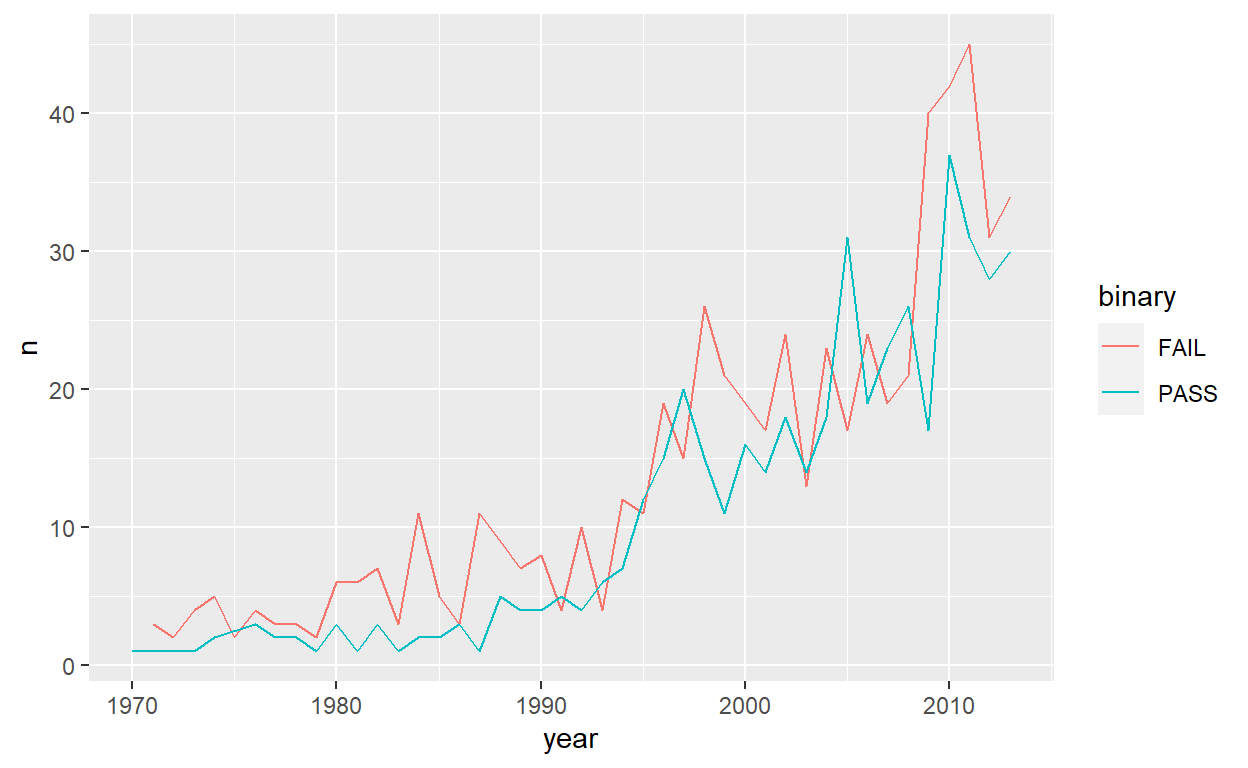
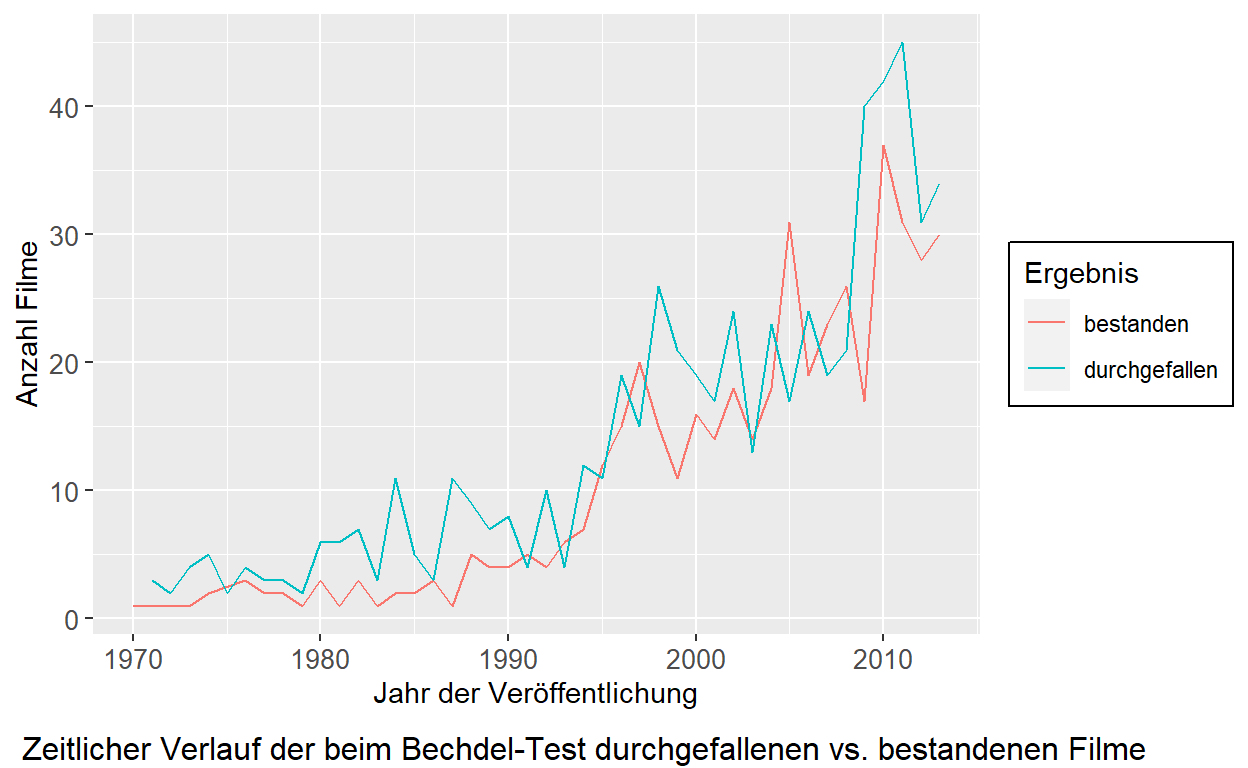
Erstellung der restlichen Texte & Anpassung des untersten Diagramms

diff --git a/_site/index.html b/_site/index.html
@@ -108,7 +108,7 @@ code span.wa { color: #5e5e5e; font-style: italic; } /* Warning */
   <!--radix_placeholder_rmarkdown_metadata-->
 
   <script type="text/json" id="radix-rmarkdown-metadata">
-  {"type":"list","attributes":{"names":{"type":"character","attributes":{},"value":["title","description","output"]}},"value":[{"type":"character","attributes":{},"value":["Gleichberechtigung"]},{"type":"character","attributes":{},"value":["Sind Filme Spiegel ihrer Gesellschaft?  \nFinde heraus, wie die Gleichberechtigung in Deinem Land aussieht und ob sie sich in der Filmwelt widerspiegelt!\n"]},{"type":"list","attributes":{"names":{"type":"character","attributes":{},"value":["distill::distill_article"]}},"value":[{"type":"list","attributes":{"names":{"type":"character","attributes":{},"value":["toc"]}},"value":[{"type":"logical","attributes":{},"value":[true]}]}]}]}
+  {"type":"list","attributes":{"names":{"type":"character","attributes":{},"value":["title","description","output"]}},"value":[{"type":"character","attributes":{},"value":["Gleichberechtigung"]},{"type":"character","attributes":{},"value":["Sind Filme Spiegel ihrer Gesellschaft?  \nFinde heraus, wie die Gleichberechtigung in Deinem Land aussieht und ob sie sich in der Filmwelt widerspiegelt!\n"]},{"type":"character","attributes":{},"value":["distill::distill_article"]}]}
   </script>
   <!--/radix_placeholder_rmarkdown_metadata-->
   <!--radix_placeholder_navigation_in_header-->
@@ -2372,35 +2372,19 @@ Finde heraus, wie die Gleichberechtigung in Deinem Land aussieht und ob sie sich
 
 
 <div class="d-article">
-<div class="d-contents d-contents-float">
-<nav class="l-text toc figcaption" id="TOC">
-<h3>Contents</h3>
-<ul>
-<li><a href="#gleichberechtigung">Gleichberechtigung</a></li>
-</ul>
-</nav>
-</div>
 <div class="layout-chunk" data-layout="l-body">
 
 </div>
 <h2 id="gleichberechtigung">Gleichberechtigung</h2>
-<p>Wir, die DataWizards, haben für Euch die spannendsten Länder bereitgestellt. Klick auf unsere Karte oder finde Dein Land über die Menüleiste, um Informationen rund ums Thema Gleichstellung zu finden: Sei es zum <a href="Glossar.html">Gleichstellungsindex</a> oder zum <a href="Glossar.html">Bechdel-Test</a>.</p>
+<p>Wir, die DataWizards, haben für Euch die 14 spannendsten Länder bereitgestellt. Klick auf unsere Karte oder finde Dein Land über die Menüleiste, um Informationen rund ums Thema Gleichstellung zu finden: Sei es zum <a href="Glossar.html">Gleichstellungsindex</a> oder zum <a href="Glossar.html">Bechdel-Test</a>.</p>
 <div class="layout-chunk" data-layout="l-body-outset">
 <p><img src="index_files/figure-html5/unnamed-chunk-1-1.png" width="768" /></p>
 </div>
-<ul>
-<li>Korrelationstest?</li>
-</ul>
+<p>Bis auf China und Japan erzielen alle Länder eine hohe Gesamtpunktzahl in dem Gleichstellungsindex – trotzdem schwankt ihre Durchfallquote beim Bechdel-Test um über 30%. Teils unterscheidet sich, wie gut sich das Land in beiden Scores schlägt, teils ähneln sich die Ergebnisse. Die Frage, ob Filme einen Spiegel der Gesellschaft in Bezug auf Gleichstellung darstellen, bleibt somit Ländersache…</p>
 <div class="layout-chunk" data-layout="l-body">
 <p><img src="index_files/figure-html5/unnamed-chunk-2-1.png" width="624" /></p>
 </div>
-<ul>
-<li>generelle Zunahme von Filmen über die Jahre</li>
-<li>wenige Peaks von mehr PASS als FAIL</li>
-<li>grundsätzlich werden trotz Zunahme immer mehr Filme produziert, die durchfallen</li>
-<li>zeigt, dass in der Filmbranche Gleichberechtigung nicht durchgesetzt ist</li>
-<li>Filme als Repräsentation/Spiegel der Gesellschaft</li>
-</ul>
+<p>Insgesamt werden über die Jahre immer mehr Filme produziert. Trotz weniger Peaks (z.B. in 1997 und 2005), in denen mehr produzierte Filme den Bechdel-Test bestehen, fallen die seit 1970 veröffentlichten Filme grundsätzlich durch. Wird der Test als Maßstab für die Gleichberechtigung betrachtet, zeigt er, dass sie in der Filmbranche nicht durchgängig umgesetzt ist. Es besteht noch Verbesserungsbedarf!</p>
 <div class="sourceCode" id="cb1"><pre class="sourceCode r distill-force-highlighting-css"><code class="sourceCode r"></code></pre></div>
 <!--radix_placeholder_article_footer-->
 <!--/radix_placeholder_article_footer-->

diff --git a/_site/New_Zealand.html b/_site/New_Zealand.html
@@ -2354,6 +2354,7 @@ Ergebnisse nach Land
 <a href="USA.html">USA</a>
 </div>
 </div>
+<a href="Glossar.html">Glossar</a>
 <a href="about.html">About</a>
 <a href="javascript:void(0);" class="nav-toggle">&#9776;</a>
 </div>
@@ -2382,7 +2383,6 @@ Ergebnisse nach Land
 <li><a href="#hindernisse">Hindernisse</a></li>
 </ul></li>
 <li><a href="#ergebnisse-beim-bechdel-test">Ergebnisse beim Bechdel-Test</a></li>
-<li><a href="#vergleich">Vergleich</a></li>
 <li><a href="#fazit">Fazit</a></li>
 </ul>
 </nav>
@@ -2444,11 +2444,8 @@ Ergebnisse nach Land
 <div class="layout-chunk" data-layout="l-body">
 <p><img src="New_Zealand_files/figure-html5/unnamed-chunk-3-1.png" width="624" /></p>
 </div>
-<h2 id="vergleich">Vergleich</h2>
 <h2 id="fazit">Fazit</h2>
-<ul>
-<li>Sind Filme Spiegel der Gesellschaft was Gleichberechtigung angeht?</li>
-</ul>
+<p>Obwohl Neuseeland bei dem Gleichstellungsindex insgesamt sehr gut ausfällt, fallen die in dem Land produzierten Filme generell beim Bechdel-Test durch – hauptsächlich, weil die Frauenrollen nicht miteinander reden. Lediglich Drama-Filme bestehen den Test häufiger. Somit spiegeln die Filme von Neuseeland nicht direkt seinen Gleichberechtigungsstandard wider.</p>
 <div class="sourceCode" id="cb1"><pre class="sourceCode r distill-force-highlighting-css"><code class="sourceCode r"></code></pre></div>
 <!--radix_placeholder_article_footer-->
 <!--/radix_placeholder_article_footer-->

diff --git a/_site/UK.html b/_site/UK.html
@@ -2354,6 +2354,7 @@ Ergebnisse nach Land
 <a href="USA.html">USA</a>
 </div>
 </div>
+<a href="Glossar.html">Glossar</a>
 <a href="about.html">About</a>
 <a href="javascript:void(0);" class="nav-toggle">&#9776;</a>
 </div>
@@ -2437,7 +2438,7 @@ Ergebnisse nach Land
 </div>
 </div>
 <h2 id="ergebnisse-beim-bechdel-test">Ergebnisse beim Bechdel-Test</h2>
-<p>Mehr als die Hälfte der Filme besteht den Bechdel-Test nicht. Vor 1980 wurden gar keine Filme produziert, welche ihn bestehen. Ab den 1990er Jahren haben alle Bewertungen zugenommen mit einem allgemeinen Produktionspeak zum Ende der 2000er Jahre. Das häufigste Kriterium, an dem die Filme scheitern, ist, dass die Frauen im Film nicht miteinander reden: Dies trifft auf genau 50% der durchgefallenen Filme zu.</p>
+<p>Mehr als die Hälfte der Filme besteht den Bechdel-Test nicht. Vor 1980 wurden gar keine Filme veröffentlicht, welche ihn bestehen. Ab den 1990er Jahren haben alle Bewertungen zugenommen mit einem allgemeinen Produktionspeak zum Ende der 2000er Jahre. Das häufigste Kriterium, an dem die Filme scheitern, ist, dass die Frauen im Film nicht miteinander reden: Dies trifft auf genau 50% der durchgefallenen Filme zu.</p>
 <div class="layout-chunk" data-layout="l-body">
 <p><img src="UK_files/figure-html5/unnamed-chunk-2-1.png" width="624" /></p>
 </div>

diff --git a/_site/Japan.html b/_site/Japan.html
@@ -2354,6 +2354,7 @@ Ergebnisse nach Land
 <a href="USA.html">USA</a>
 </div>
 </div>
+<a href="Glossar.html">Glossar</a>
 <a href="about.html">About</a>
 <a href="javascript:void(0);" class="nav-toggle">&#9776;</a>
 </div>
@@ -2382,8 +2383,6 @@ Ergebnisse nach Land
 <li><a href="#hindernisse">Hindernisse</a></li>
 </ul></li>
 <li><a href="#ergebnisse-beim-bechdel-test">Ergebnisse beim Bechdel-Test</a></li>
-<li><a href="#vergleich">Vergleich</a></li>
-<li><a href="#fazit">Fazit</a></li>
 </ul>
 </nav>
 </div>
@@ -2440,8 +2439,14 @@ Ergebnisse nach Land
 </div>
 </div>
 <h1 id="ergebnisse-beim-bechdel-test">Ergebnisse beim Bechdel-Test</h1>
-<h1 id="vergleich">Vergleich</h1>
-<h1 id="fazit">Fazit</h1>
+<div class="layout-chunk" data-layout="l-body">
+<p><img src="Japan_files/figure-html5/unnamed-chunk-2-1.png" width="624" /></p>
+</div>
+text
+<div class="layout-chunk" data-layout="l-body">
+<p><img src="Japan_files/figure-html5/unnamed-chunk-3-1.png" width="624" /></p>
+</div>
+<p>text # Vergleich # Fazit</p>
 <div class="sourceCode" id="cb1"><pre class="sourceCode r distill-force-highlighting-css"><code class="sourceCode r"></code></pre></div>
 <!--radix_placeholder_article_footer-->
 <!--/radix_placeholder_article_footer-->

diff --git a/_site/INFO.html b/_site/INFO.html
@@ -299,6 +299,9 @@ $(document).ready(function () {
   </ul>
 </li>
 <li>
+  <a href="Glossar.html">Glossar</a>
+</li>
+<li>
   <a href="about.html">About</a>
 </li>
       </ul>
@@ -320,6 +323,7 @@ $(document).ready(function () {
 <p>Kapitel: - Equality Score - Bechdel-Test - Allgemeine Equality-Situation - Vergleich/Zusammenfassung/Fazit</p>
 <p>Diagramm-Ideen: - Balkendiagramme (spezifisch: Diagramm zum Gleichstellungsindex je Land) animieren, sodass sich die Balken erst beim Öffnen der Seite aufbaut - Palette: scale_color_continuous_sequential(Palette = “Purple-Orange”) - Punktdiagramm: Gründe für das Durchfallen (Jana Bechdel) ++++ - Boxplot/Liniendiagramm/Punktdiagramm: Budget - Bechdeltest: Cleantest (großer Datensatz, nicht der von 0-3 geht) - Genres nach Fail und Pass vergleichen (MK Bechdel) ++++ - Facet Wrap Density Plot (Genre + Gross) (Bechdel VM) -&gt; sehr schön - Anzahl Fails/Pass Liniendiagramm über die Jahre (Haris Bechdel) -&gt; auf Startseite</p>
 <p>Design-Ideen - Blocksatz für Textabsätze</p>
+<p>To Do - Anpassung der Links auf der Startseite (index.Rmd)</p>
 
 
 

diff --git a/_site/Italy.html b/_site/Italy.html
@@ -2354,6 +2354,7 @@ Ergebnisse nach Land
 <a href="USA.html">USA</a>
 </div>
 </div>
+<a href="Glossar.html">Glossar</a>
 <a href="about.html">About</a>
 <a href="javascript:void(0);" class="nav-toggle">&#9776;</a>
 </div>
@@ -2432,6 +2433,14 @@ Ergebnisse nach Land
 </div>
 </div>
 <h1 id="ergebnisse-beim-bechdel-test">Ergebnisse beim Bechdel-Test</h1>
+TEXT
+<div class="layout-chunk" data-layout="l-body">
+<p><img src="Italy_files/figure-html5/unnamed-chunk-2-1.png" width="624" /></p>
+</div>
+<p>TEXT</p>
+<div class="layout-chunk" data-layout="l-body">
+<p><img src="Italy_files/figure-html5/unnamed-chunk-3-1.png" width="624" /></p>
+</div>
 <h1 id="vergleich">Vergleich</h1>
 <h1 id="fazit">Fazit</h1>
 <div class="sourceCode" id="cb1"><pre class="sourceCode r distill-force-highlighting-css"><code class="sourceCode r"></code></pre></div>

diff --git a/_site/Irland.html b/_site/Irland.html
@@ -2354,6 +2354,7 @@ Ergebnisse nach Land
 <a href="USA.html">USA</a>
 </div>
 </div>
+<a href="Glossar.html">Glossar</a>
 <a href="about.html">About</a>
 <a href="javascript:void(0);" class="nav-toggle">&#9776;</a>
 </div>
@@ -2435,6 +2436,14 @@ Ergebnisse nach Land
 </div>
 </div>
 <h1 id="ergebnisse-beim-bechdel-test">Ergebnisse beim Bechdel-Test</h1>
+TEXT
+<div class="layout-chunk" data-layout="l-body">
+<p><img src="Irland_files/figure-html5/unnamed-chunk-2-1.png" width="624" /></p>
+</div>
+TEXT
+<div class="layout-chunk" data-layout="l-body">
+<p><img src="Irland_files/figure-html5/unnamed-chunk-3-1.png" width="624" /></p>
+</div>
 <h1 id="vergleich">Vergleich</h1>
 <h1 id="fazit">Fazit</h1>
 <div class="sourceCode" id="cb1"><pre class="sourceCode r distill-force-highlighting-css"><code class="sourceCode r"></code></pre></div>

diff --git a/_site/Australia.html b/_site/Australia.html
@@ -2354,6 +2354,7 @@ Ergebnisse nach Land
 <a href="USA.html">USA</a>
 </div>
 </div>
+<a href="Glossar.html">Glossar</a>
 <a href="about.html">About</a>
 <a href="javascript:void(0);" class="nav-toggle">&#9776;</a>
 </div>

diff --git a/_site/Bechdel.html b/_site/Bechdel.html
@@ -2352,6 +2352,7 @@ Ergebnisse nach Land
 <a href="USA.html">USA</a>
 </div>
 </div>
+<a href="Glossar.html">Glossar</a>
 <a href="about.html">About</a>
 <a href="javascript:void(0);" class="nav-toggle">&#9776;</a>
 </div>

diff --git a/_site/Canada.html b/_site/Canada.html
@@ -2354,6 +2354,7 @@ Ergebnisse nach Land
 <a href="USA.html">USA</a>
 </div>
 </div>
+<a href="Glossar.html">Glossar</a>
 <a href="about.html">About</a>
 <a href="javascript:void(0);" class="nav-toggle">&#9776;</a>
 </div>

diff --git a/_site/China.html b/_site/China.html
@@ -2354,6 +2354,7 @@ Ergebnisse nach Land
 <a href="USA.html">USA</a>
 </div>
 </div>
+<a href="Glossar.html">Glossar</a>
 <a href="about.html">About</a>
 <a href="javascript:void(0);" class="nav-toggle">&#9776;</a>
 </div>

diff --git a/_site/Czech_Republic.html b/_site/Czech_Republic.html
@@ -2354,6 +2354,7 @@ Ergebnisse nach Land
 <a href="USA.html">USA</a>
 </div>
 </div>
+<a href="Glossar.html">Glossar</a>
 <a href="about.html">About</a>
 <a href="javascript:void(0);" class="nav-toggle">&#9776;</a>
 </div>
